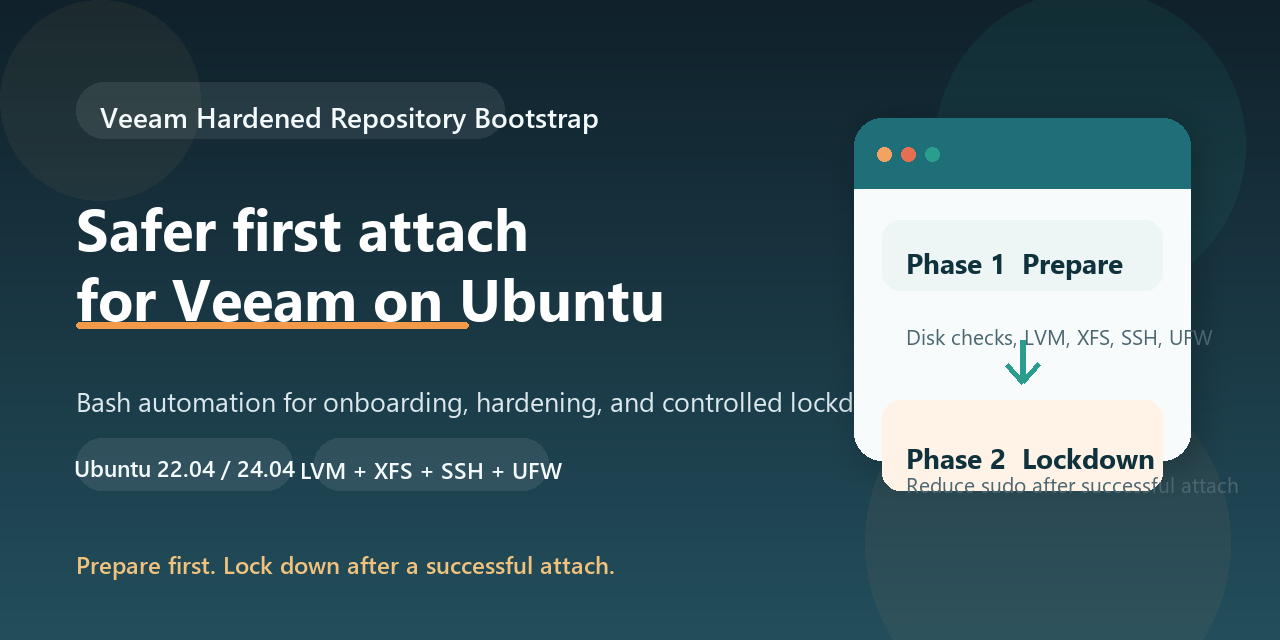
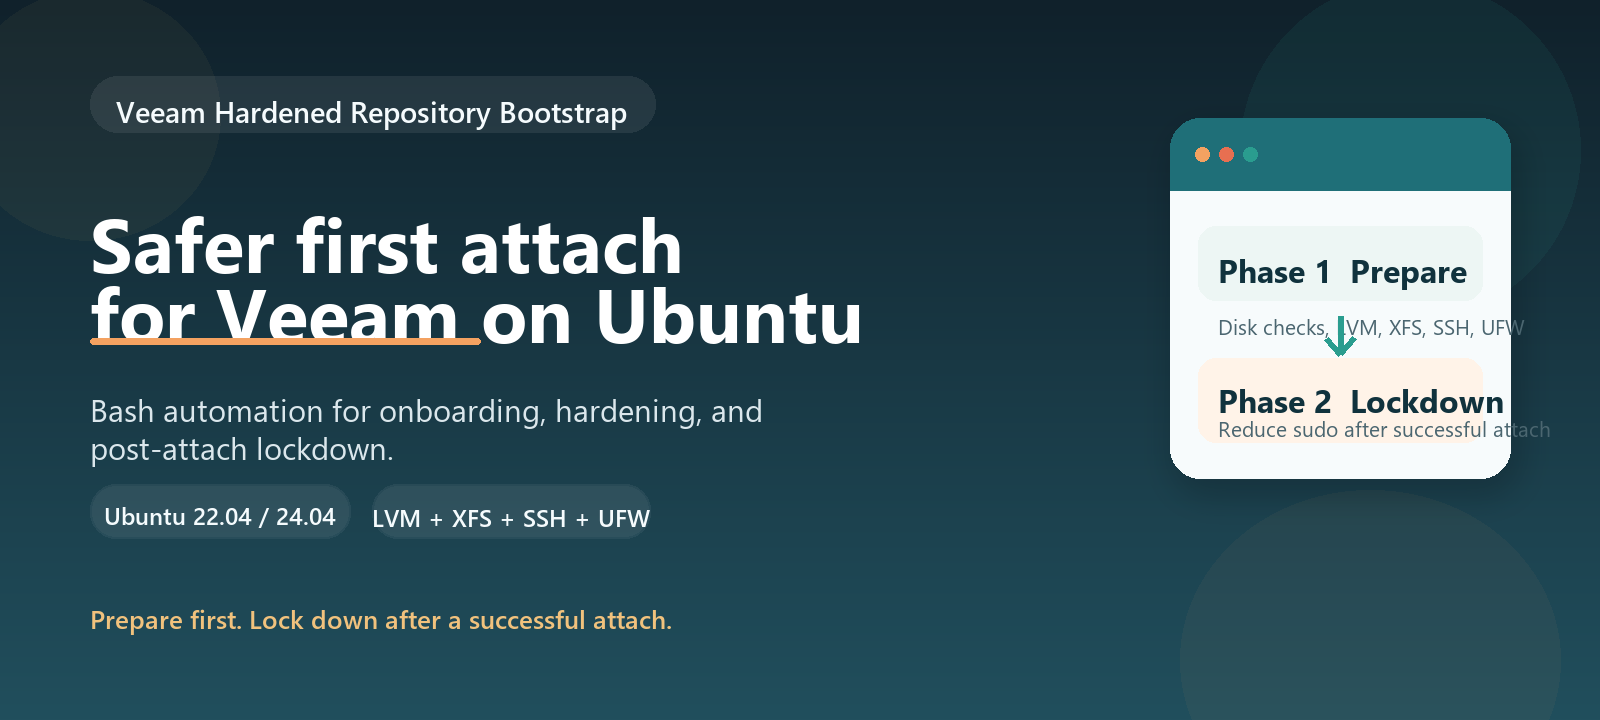
Tighten

diff --git a/README.md b/README.md
@@ -21,7 +21,7 @@ This repository provides a Bash script to prepare an Ubuntu `22.04 LTS` or `24.0
 It is aimed at system administrators who need to deploy a Linux hardened repository without turning the first Veeam connection into a troubleshooting exercise. The script focuses on practical automation for `veeamrepo`, LVM, XFS, SSH hardening, UFW, logging, and controlled privilege reduction after the initial attach.
 
 <p align="center">
-  <img src="./assets/veeam-workflow.png" alt="Prepare then post-attach-lockdown workflow" width="92%">
+  <img src="./assets/veeam-workflow.png" alt="Prepare then post-attach-lockdown workflow" width="100%">
 </p>
 
 The workflow is intentionally split into two phases:
